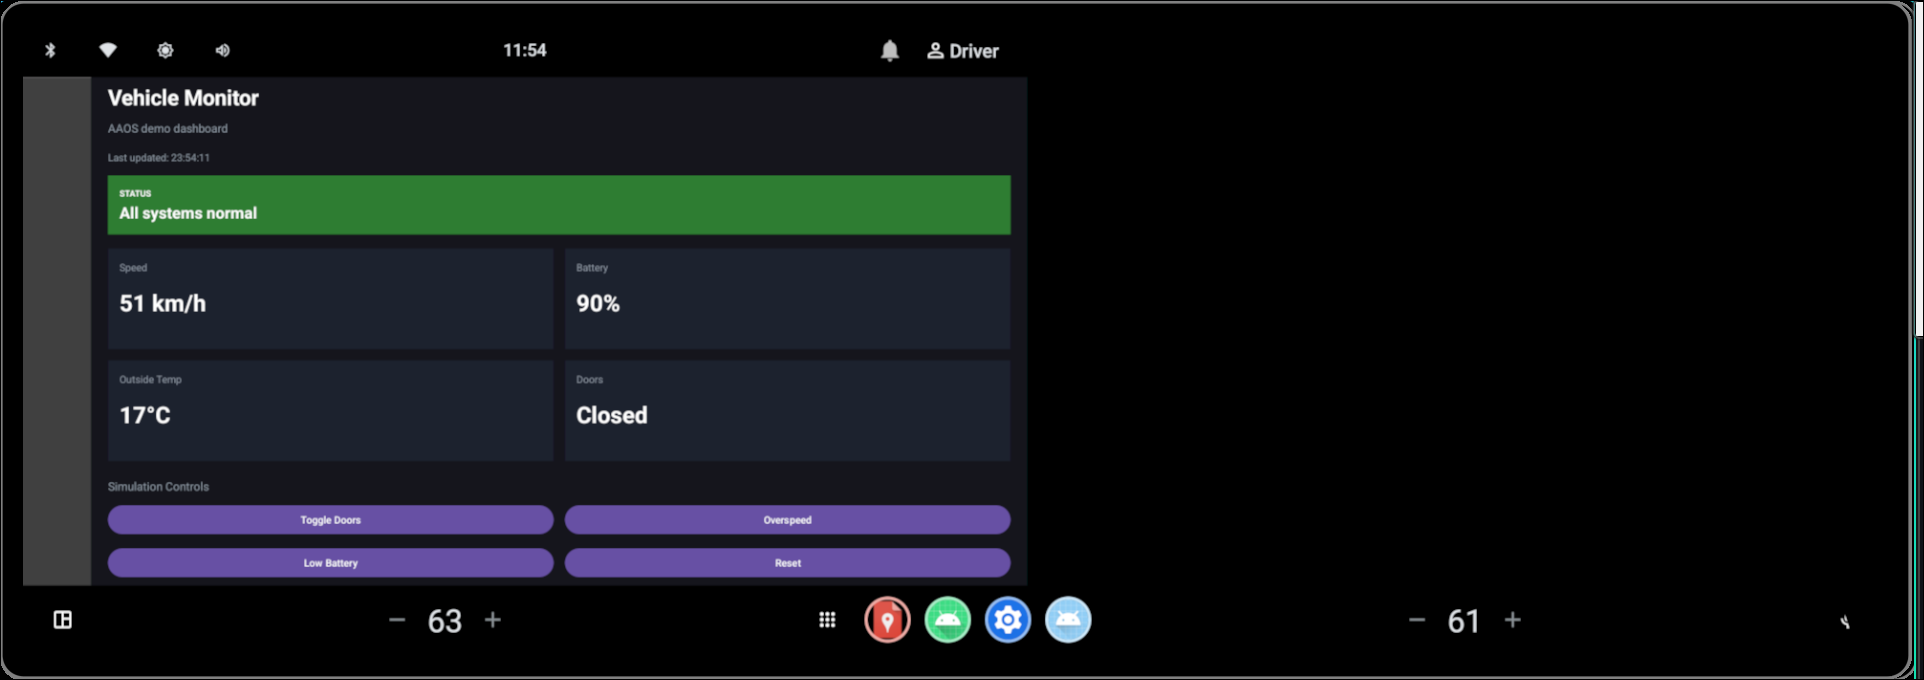
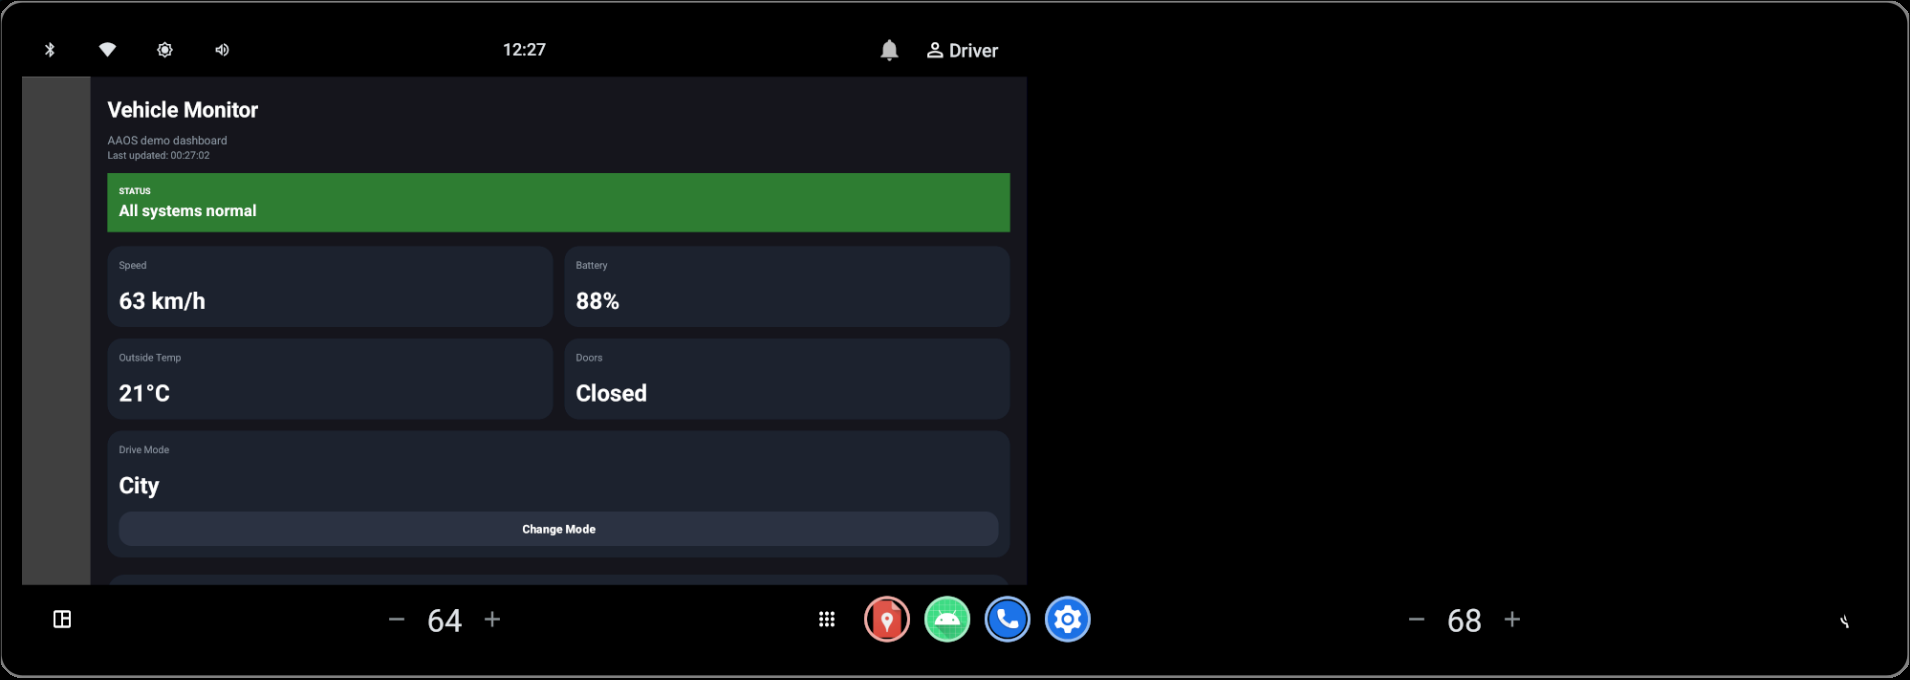
update screenshots and README.md

diff --git a/README.md b/README.md
@@ -12,16 +12,19 @@ This project was created to explore **automotive HMI concepts** using the **AAOS
   - Battery
   - Outside temperature
   - Door state
+  -  Drive mode
 - Status banner with visual alerts:
   - All systems normal
   - Door open
   - Low battery
   - Overspeed warning
 - Manual simulation controls:
+  - Change drive mode
   - Toggle doors
   - Trigger overspeed
   - Trigger low battery
   - Reset state
+- Recent events / alert log
 - "Last updated" timestamp
 
 ## Tech stack
@@ -62,7 +65,9 @@ The app uses a small in-memory `VehicleRepository` to simulate changing vehicle 
 A periodic UI refresh updates the dashboard with:
 - random telemetry changes
 - forced states triggered by manual buttons
+- drive mode changes
 - alert color changes depending on severity
+- event history updates when the dashboard state changes
 
 This makes it easy to demonstrate the app in the AAOS emulator without relying on real vehicle APIs.
 
@@ -80,7 +85,7 @@ This makes it easy to demonstrate the app in the AAOS emulator without relying o
 1. Open the project in **Android Studio**
 2. Create or start an **Android Automotive OS emulator**
 3. Run the app with the **Play** button
-4. Use the simulation buttons to trigger different dashboard states
+4. Use the simulation controls to trigger different dashboard states
 
 ## Automotive note
 
@@ -96,7 +101,7 @@ All vehicle signals are currently **mocked/simulated** for demonstration purpose
 
 ## Repository description
 
-**AAOS demo dashboard built with Kotlin and XML for Android Automotive OS, featuring simulated vehicle telemetry and manual test controls.**
+**AAOS demo dashboard built with Kotlin and XML for Android Automotive OS, featuring simulated vehicle telemetry, drive modes, event history and manual test controls.**
 
 ## Topics
 
